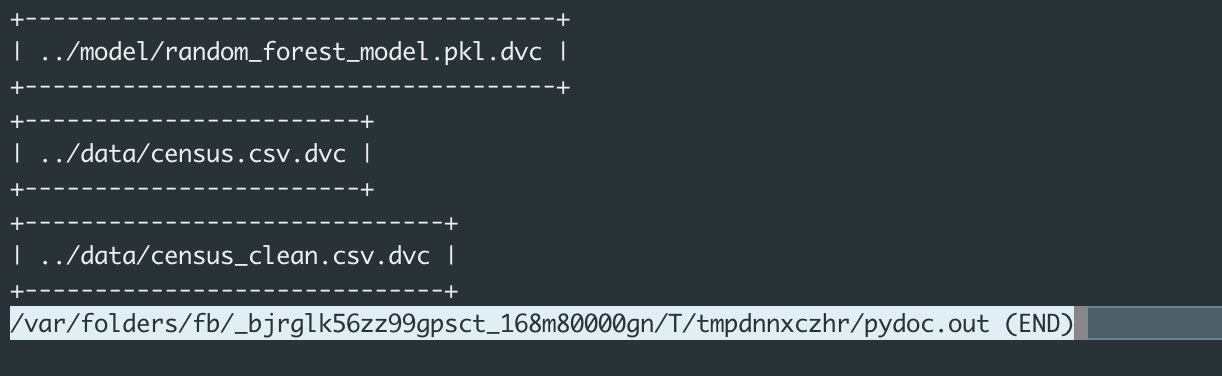
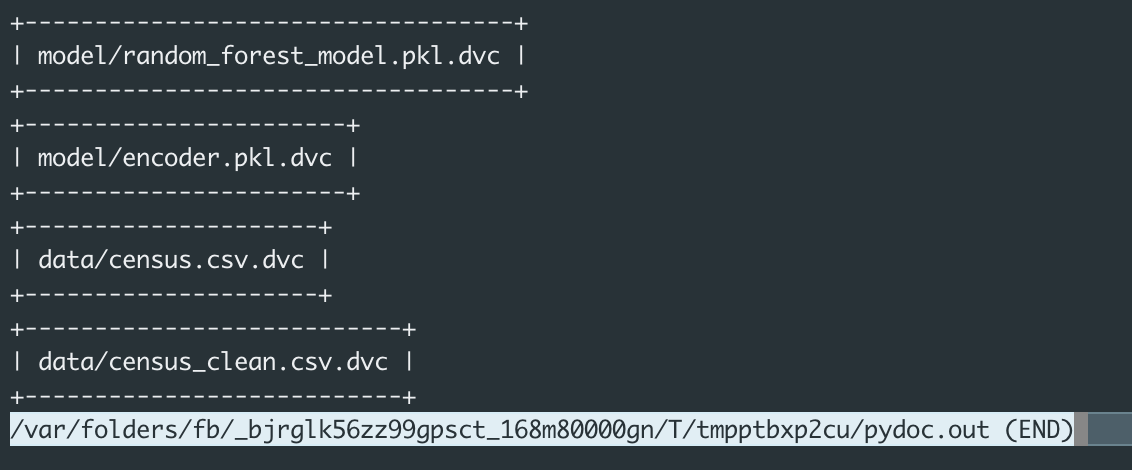
Minor adjustment on model training pipeline

diff --git a/starter/train_model.py b/starter/train_model.py
@@ -30,8 +30,11 @@ def create_model(train_data, categorical_features, model_path, label_column='sal
     # Train and save model
     model = train_model(X_train, y_train)
 
-    # Save the model in `model_path`
+    # Save the model in model_path
     joblib.dump((model, encoder, lb), model_path)
+
+    # Also save encoder (not required):
+    joblib.dump(encoder, 'model/encoder.pkl')
 
 
 def batch_inference(test_data, model_path, cat_features, label_column='salary'):
